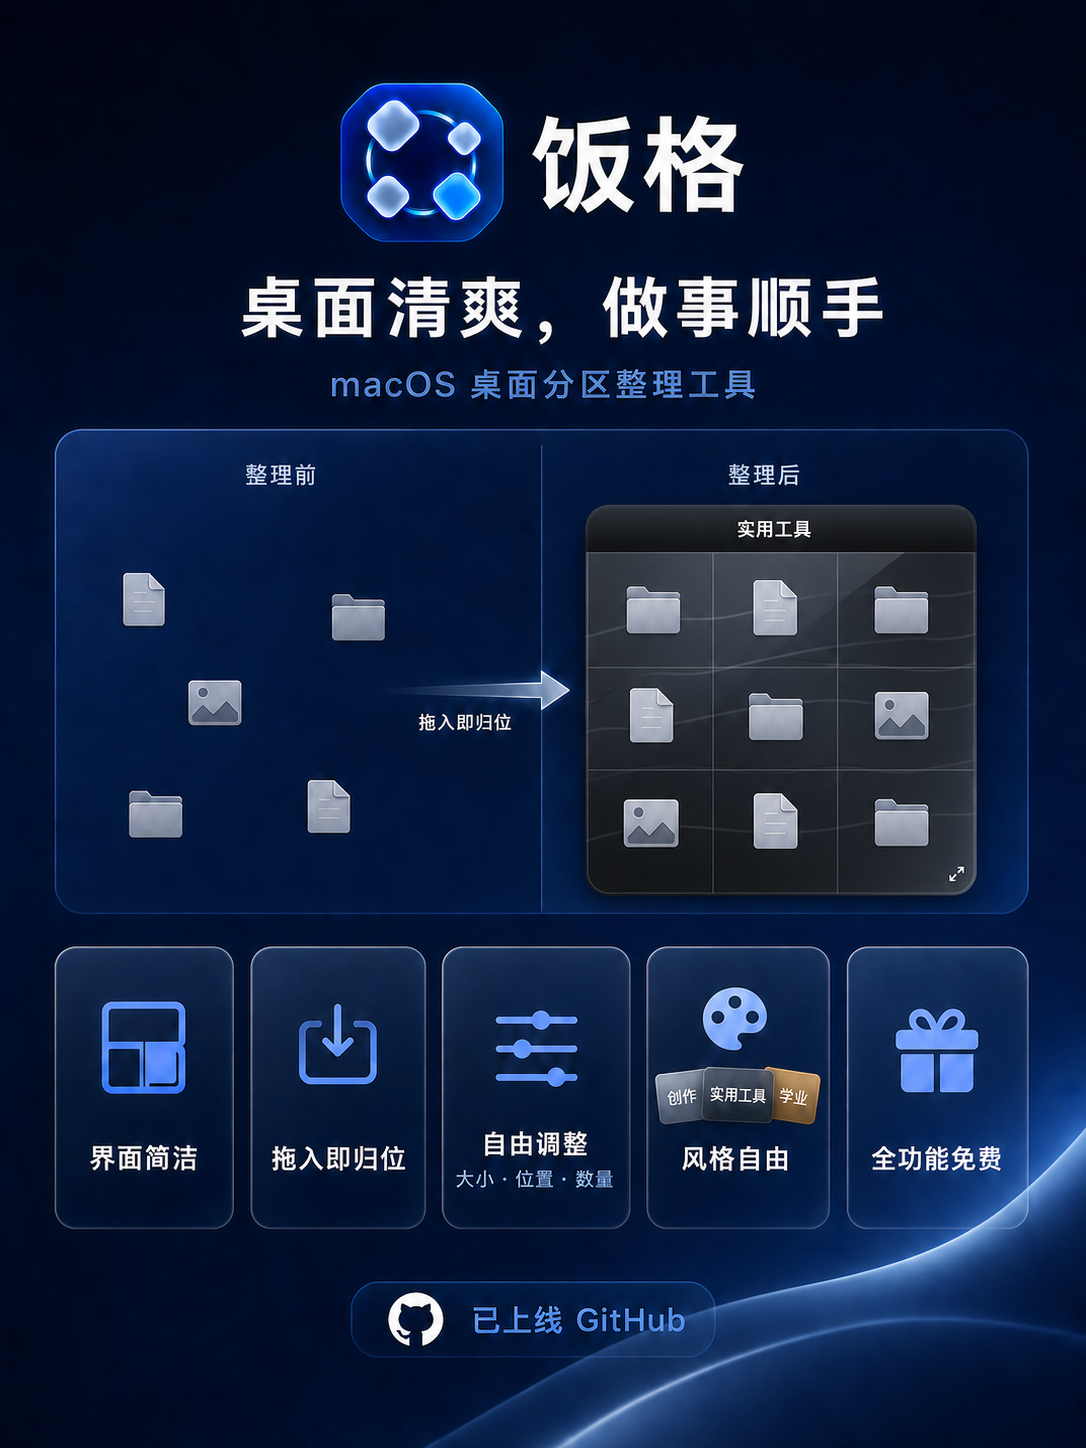
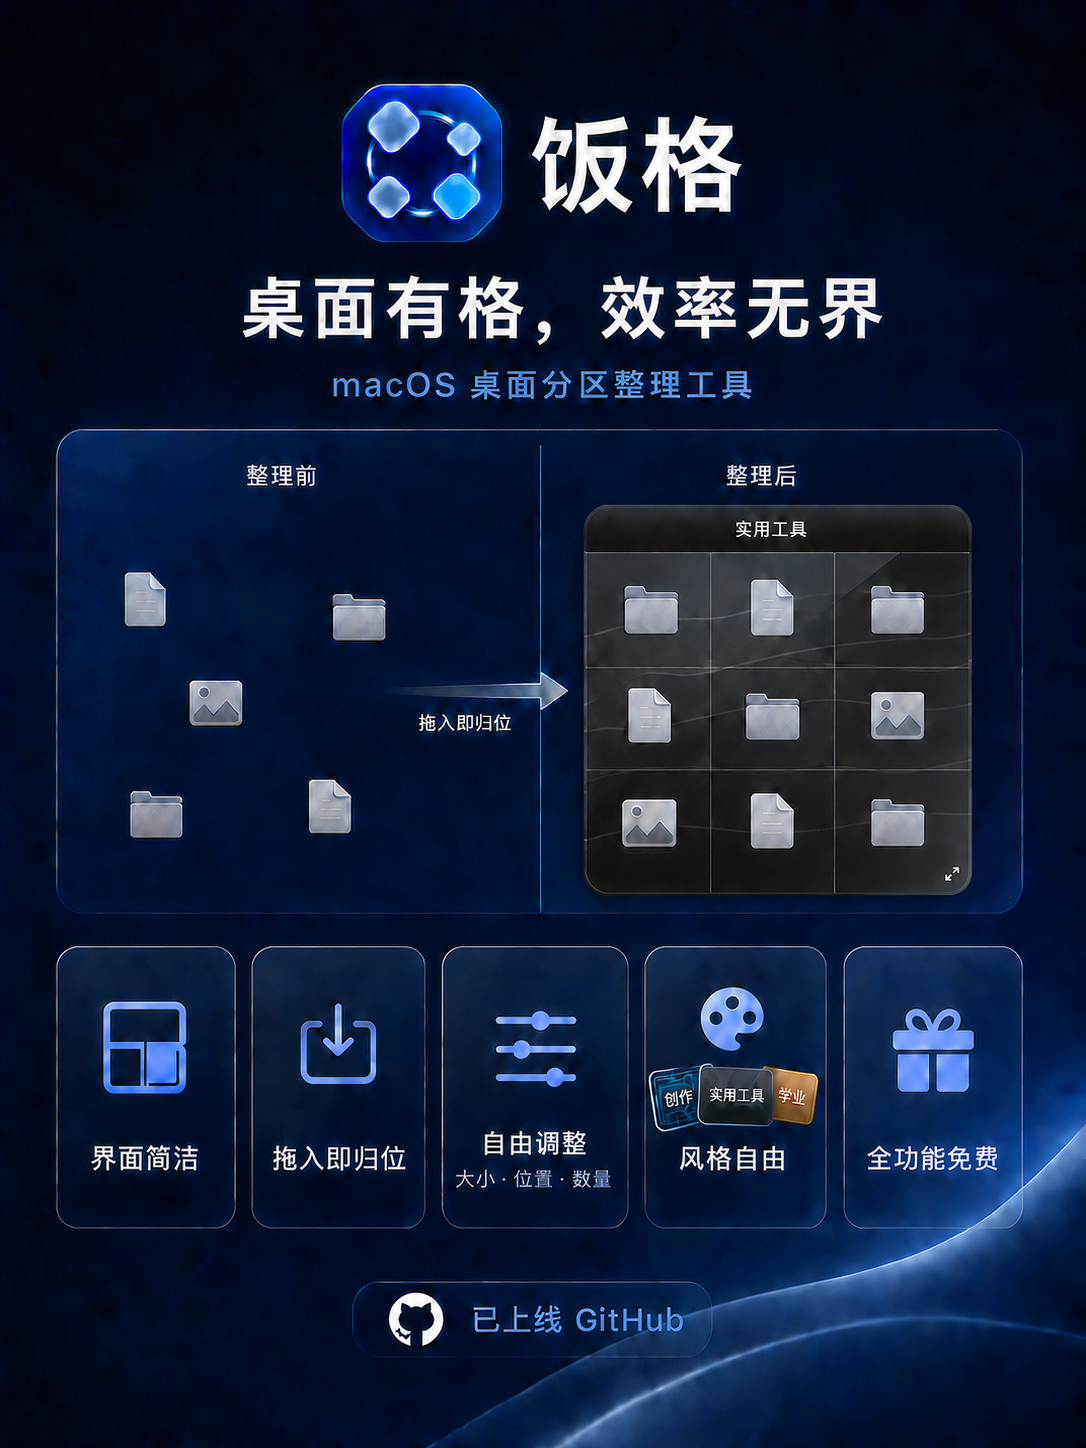
Strengthen poster materials and update tagline

diff --git a/README.md b/README.md
@@ -4,7 +4,7 @@
   <img src="assets/fange-icon.png" width="168" alt="饭格 App 图标">
 </p>
 
-<p align="center"><strong>桌面清爽，做事顺手。</strong></p>
+<p align="center"><strong>桌面有格，效率无界。</strong></p>
 
 <p align="center">原生 macOS 桌面分区整理工具 · 全功能免费 · 闭源发布</p>
 
